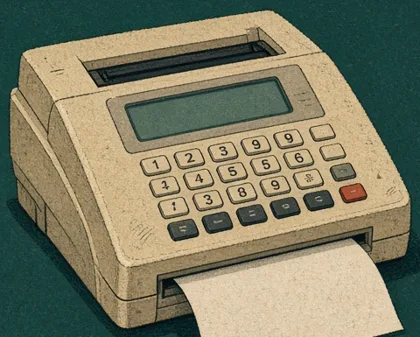
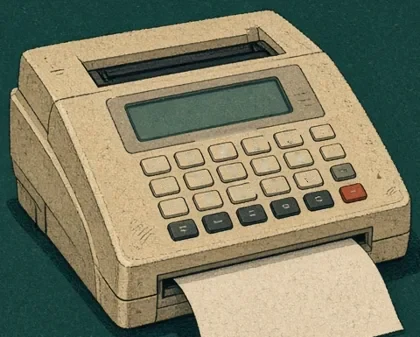
Ship fixes: recap scroll cue, Lounge tag/hand/gap fixes, one-tap perk equip, intro tweaks, fax keypad cleaned, remove unused end-win/end-lose art

diff --git a/index.html b/index.html
@@ -4946,7 +4946,7 @@ body:has(#screen-end.rc-host.on) .shell { width: 100% !important; max-width: non
 .of-room.ofx-visit .of-doorsvg .dleaf { transform-box: fill-box; transform-origin: 0 50%; }
 .of-room.ofx-visit.ofx-go .of-doorsvg .dleaf { animation: ofxDoor 2.2s cubic-bezier(0.3, 0.1, 0.2, 1) both; }
 .of-room.ofx-visit.ofx-go .of-doorsvg .dframe { animation: ofxHall 2.2s linear both; }
-.of-room.ofx-visit.ofx-go .of-door .of-knock { animation: ofxKnock 0.9s steps(4) both; }
+.of-room.ofx-visit.ofx-go .of-door .of-knock { animation: ofxKnock 1.05s steps(5) both; }
 @keyframes ofxDoor { 0%, 20% { transform: scaleX(1); } 40%, 100% { transform: scaleX(0.14); } }
 @keyframes ofxHall { 0%, 22% { fill: #2a1a0c; } 30%, 100% { fill: #f3e6c8; } }
 @keyframes ofxKnock { 0% { opacity: 1; transform: translateX(-50%) rotate(-4deg); } 50% { opacity: 1; transform: translateX(-54%) rotate(3deg) scale(1.08); } 85% { opacity: 1; } 100% { opacity: 0; } }
@@ -4999,6 +4999,23 @@ body:has(#screen-end.rc-host.on) .shell { width: 100% !important; max-width: non
 .of-room.ofx-away .of-exec .of-mood { opacity: 0; }
 .of-room.ofx .meter { transition: opacity 0.2s; opacity: 0; pointer-events: none; }
 @media (max-width: 520px) { .ofx-dest { font-size: 9.5px; padding: 1px 4px; } .ofx-tag { font-size: 9.5px; padding: 1px 4px; } .ofx-back b { font-size: 6.5px; } }
+/* Recap: inner-scroll cue (landscape dossiers run ~200-350px taller than the screen) */
+.rc-more { position: absolute; z-index: 3; left: 50%; transform: translate(-50%, 8px); padding: 5px 12px 6px; border: 2px solid var(--jy-ink); border-radius: 999px; background: var(--jy-paper); background-image: var(--jy-grain); color: var(--jy-ink); box-shadow: 2px 3px 0 rgba(20, 32, 33, 0.55); font: 800 12px/1 var(--font-sans); letter-spacing: 0.1em; text-transform: uppercase; cursor: pointer; opacity: 0; pointer-events: none; transition: opacity 0.2s, transform 0.2s; }
+.rc-more i { font-style: normal; display: inline-block; animation: rcMoreBob 1.4s ease-in-out infinite; }
+.rc.tix.rc-has-more .rc-more { opacity: 1; pointer-events: auto; transform: translate(-50%, 0); }
+@keyframes rcMoreBob { 50% { transform: translateY(2px); } }
+@media (prefers-reduced-motion: reduce) { .rc-more i { animation: none; } }
+/* Lounge ship fixes: long tag names fit, the hand keeps off the Sign text, no dead band under the rack in portrait */
+.lt-tag b { letter-spacing: -0.01em; }
+.lt-tag b.l { font-size: clamp(9.5px, calc(var(--cw) * 0.112), 13px); letter-spacing: -0.02em; }
+.lt-tag b.xl { font-size: clamp(9px, calc(var(--cw) * 0.1), 12px); letter-spacing: -0.03em; }
+#screen-boardroom .lg-sign.ld-act { padding-right: 58px; }
+@media (orientation: portrait), (max-width: 859px) {
+  .lg-inner { grid-template-rows: minmax(var(--plate-h), 1fr) minmax(0, auto) auto auto auto; }
+  .lg-plate { height: auto; min-height: var(--plate-h); }
+}
+@media (max-width: 560px) { #screen-boardroom .lg-sign.ld-act { padding-right: 46px; } #screen-boardroom .lg-sign b { white-space: nowrap; } }
+@media (max-width: 380px) { #screen-boardroom .lg-sign { gap: 6px; padding-left: 8px; } #screen-boardroom .lg-sign.ld-act { padding-right: 54px; } #screen-boardroom .lg-sign b { font-size: 14.5px; letter-spacing: 0.04em; } #screen-boardroom .lg-sign small { font-size: 11.5px; } }
 </style>
   <script>
   /* Visible viewport height: prefer visualViewport so a Safari toolbar
@@ -10560,7 +10577,7 @@ body:has(#screen-end.rc-host.on) .shell { width: 100% !important; max-width: non
     var label = o.name + (o.owned ? ", yours" : o.soon ? ", coming soon" : o.earnOnly ? ", earn by finishing a run" : ", " + o.price + " Dividends" + (o.afford ? ", affordable" : ", not enough Dividends"));
     return '<button type="button" class="' + cls + '" data-lt="' + o.key + '" aria-pressed="' + (o.key === sel) + '" aria-label="' + escapeHtml(label) + '">' +
       '<span class="lt-hook" aria-hidden="true"></span>' + lgKeySvg() +
-      '<span class="lt-tag"><i class="lt-eye" aria-hidden="true"></i>' + lgArt(o) + "<b>" + escapeHtml(o.short) + "</b>" + price +
+      '<span class="lt-tag"><i class="lt-eye" aria-hidden="true"></i>' + lgArt(o) + "<b" + (String(o.short || "").length >= 10 ? ' class="xl"' : String(o.short || "").length >= 8 ? ' class="l"' : "") + ">" + escapeHtml(o.short) + "</b>" + price +
       (o.owned ? '<span class="lt-stamp" aria-hidden="true">' + (o.free ? "House" : "Yours") + "</span>" : "") +
       (o.state === "short" || o.state === "earn" ? '<span class="lt-grille" aria-hidden="true"></span>' : "") + "</span></button>";
   }
@@ -13468,10 +13485,24 @@ body:has(#screen-end.rc-host.on) .shell { width: 100% !important; max-width: non
     return c;
   };
 
+    /* Scroll cue: when the dossier is taller than the screen (landscape mostly), a small "More" tab nudges the inner scroll. */
+  LD.recapScrollCue = function (root) {
+    var rc = root.querySelector("#rc"), scroller = root.querySelector("#rc-scroll");
+    if (!rc || !scroller || rc.querySelector(".rc-more")) return;
+    (function () {
+      var more = document.createElement("button"); more.type = "button"; more.className = "rc-more"; more.setAttribute("aria-label", "Scroll down"); more.innerHTML = "More <i aria-hidden=\"true\">▾</i>";
+      rc.appendChild(more);
+      function upd() { var foot = rc.querySelector(".rc-foot"); more.style.bottom = ((foot ? foot.offsetHeight : 0) + 10) + "px"; rc.classList.toggle("rc-has-more", scroller.scrollHeight - scroller.clientHeight - scroller.scrollTop > 28); }
+      scroller.addEventListener("scroll", upd, { passive: true }); window.addEventListener("resize", upd);
+      more.addEventListener("click", function (e) { e.stopPropagation(); scroller.scrollBy({ top: Math.round(scroller.clientHeight * 0.7), behavior: "smooth" }); });
+      var n = 0; (function tickUpd() { upd(); if (++n < 40 && document.body.contains(more)) setTimeout(tickUpd, 500); })();
+    })();
+  };
   /* ---------- Player (browser) ---------- */
   LD.playRecap = function (root, d, opts) {
     opts = opts || {};
     var rc = root.querySelector("#rc"), scroller = root.querySelector("#rc-scroll");
+    LD.recapScrollCue(root);
     var beats = Array.prototype.slice.call(root.querySelectorAll(".rc-beat")).sort(function (a, b) { return a.getAttribute("data-beat") - b.getAttribute("data-beat"); });
     var dur = LD.recapDurations(d), cues = LD.recapCues(d), sfx = opts.sfx || function () {};
     var cur = -1, timer = null, gap = null, cueT = [], rafs = [], finished = false;
@@ -14147,7 +14178,17 @@ body:has(#screen-end.rc-host.on) .shell { width: 100% !important; max-width: non
       btn.addEventListener("click", function () { tick(); selectedRating = +btn.getAttribute("data-rating"); renderExecSide(); });
     });
     Array.prototype.forEach.call(document.querySelectorAll(".cx-tag"), function (btn) {
-      btn.addEventListener("click", function () { tick(); var id = btn.getAttribute("data-perk-tag"); perkFocus = perkFocus === id ? null : id; renderExecSide(); });
+      btn.addEventListener("click", function () {
+        tick(); var id = btn.getAttribute("data-perk-tag"), m = loadMeta();
+        /* One tap: an owned perk equips (or unequips) straight away, and its tip opens so you see what it does. Locked perks just show the tip. */
+        if (m.owned.indexOf("perk:" + id) !== -1) {
+          var i = m.equipped.indexOf(id);
+          if (i !== -1) m.equipped.splice(i, 1);
+          else { m.equipped.push(id); var slots = LD.perkSlots(m, currentRating(m)); if (m.equipped.length > slots) m.equipped = m.equipped.slice(-slots); }
+          saveMeta(m); perkFocus = id;
+        } else perkFocus = perkFocus === id ? null : id;
+        renderExecSide();
+      });
     });
     var tx = $("cx-tip-x"); if (tx) tx.addEventListener("click", function () { tick(); perkFocus = null; renderExecSide(); });
     bindLoadoutChips($("cx-side"), false);
@@ -15796,6 +15837,7 @@ body:has(#screen-end.rc-host.on) .shell { width: 100% !important; max-width: non
     var host = $("screen-end");
     host.classList.add("rc-host");
     host.innerHTML = LD.renderRecap(d, tpl, { final: mode === "final" });
+    if (LD.recapScrollCue) LD.recapScrollCue(host);
     if (info && !info.soundDone && mode === "final") { info.soundDone = true; SFX.play(d.win ? "win" : "lose"); }
     var fontsReady = LD.recapLoadFonts(tpl);
     bindEndButtons();
